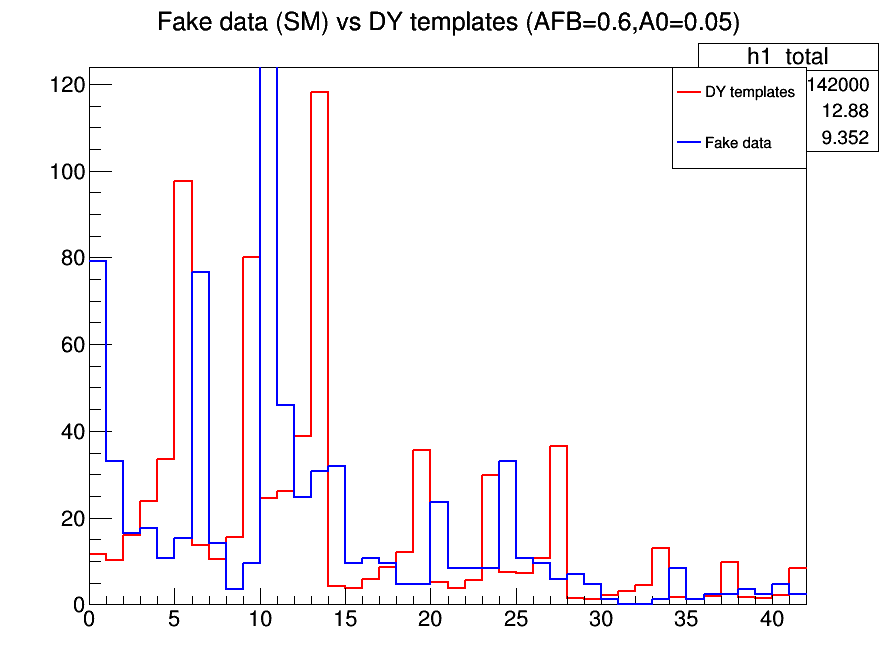
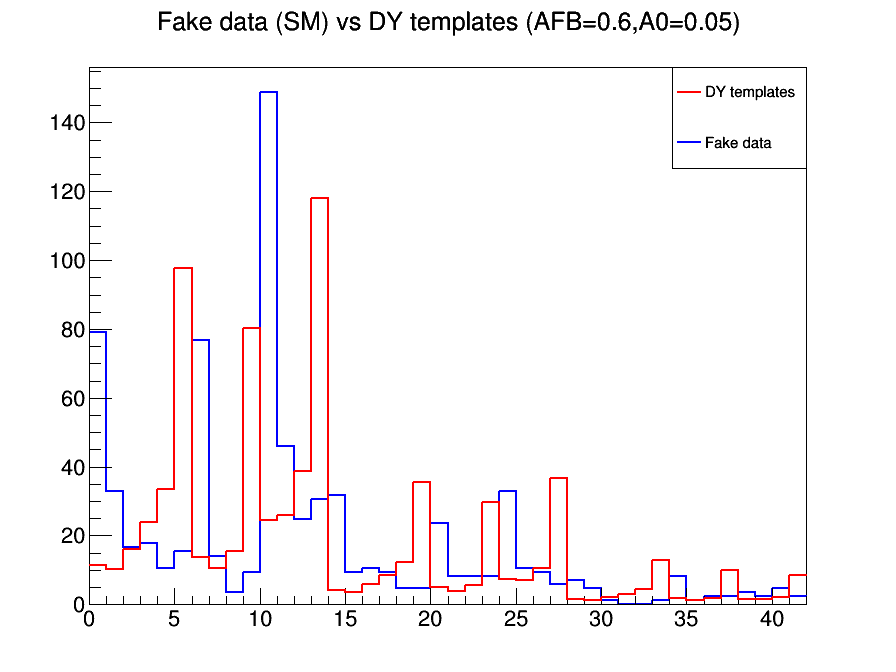
checking signflip

diff --git a/utils/LQ_TemplateMaker_systematics.C b/utils/LQ_TemplateMaker_systematics.C
@@ -304,7 +304,7 @@ void fixup_template_sum(TH3F *h_sym, TH3F *h_asym){
         
 
             // SM terms
-        
+
             //(1./2.56819)*1e9 -> conversion of GeV^-2 to pb
             // jacobian for conversion = 2sqrt(x1x2/s); x1x2s=gen_m^2; sqrt(s) = CM energy -> 13 TeV
         float s = tm.gen_m*tm.gen_m;
@@ -389,7 +389,7 @@ void fixup_template_sum(TH3F *h_sym, TH3F *h_asym){
             cvq=cvq_u;
           }
 
-          
+
           float LQ_denom = get_LQ_denom(gen_cost,s,Q_q,caq,cvq);
 
               //float reweight_LQpure_norm = (n_conv*LQ_jacobian/(128*M_PI*s));
@@ -574,7 +574,7 @@ void fixup_template_sum(TH3F *h_sym, TH3F *h_asym){
       make_pl_mn_templates(&h_sym, &h_asym, h_pl, h_mn);
 
 
-      
+
 
       h_dy->Add(h_pl, h_mn, (norm + afb), (norm - afb));
       h_alpha.Scale(norm * alpha);
@@ -607,7 +607,7 @@ void fixup_template_sum(TH3F *h_sym, TH3F *h_asym){
         }
         if(sys_label.find("fakesrw") != string::npos){
           int foo;
-          
+
           if(sys_shift > 0){
             if(flag1 == FLAG_MUONS) sscanf(sys_label.c_str(), "_mufakesrw%ib%iUp", &shape_sys, &foo);
             else sscanf(sys_label.c_str(), "_elfakesrw%ib%iUp", &shape_sys, &foo);
@@ -621,7 +621,7 @@ void fixup_template_sum(TH3F *h_sym, TH3F *h_asym){
           printf("Doing fakes costrw sys %i \n", shape_sys);
         }
       }
-      
+
       float eta1,eta2,pt1,pt2;
 
 
@@ -882,8 +882,8 @@ void fixup_template_sum(TH3F *h_sym, TH3F *h_asym){
       t_gen->GetEntry(i);
       //  if(sys_label.find("ptcutUp") != string::npos) pt_cut = 38.;
       //  if(sys_label.find("ptcutdown") != string::npos) pt_cut = 26.;
-      
-      
+
+
       evt_weight = gen_weight;
       cm = *gen_lep_p + *gen_lep_m;
       float pt = cm.Pt();
@@ -937,7 +937,7 @@ void fixup_template_sum(TH3F *h_sym, TH3F *h_asym){
         }
 
         sum_weights+=gen_weight;
-        
+
 
         float denom = get_reweighting_denom(A0_helper, gen_cost, m, pt, rap);
 
@@ -1047,9 +1047,9 @@ void fixup_template_sum(TH3F *h_sym, TH3F *h_asym){
     TLorentzVector *gen_lep_p(0), *gen_lep_m(0), *gen_q1(0), *gen_q2(0), q,cm;
     float gen_weight, m, cost, cost_st;
     int inc_id1, inc_id2;
-    
+
     float evt_weight;
-    
+
     Bool_t sig_event(1);
 
     t_gen->SetBranchAddress("lep_pls", &gen_lep_p);
@@ -1060,7 +1060,7 @@ void fixup_template_sum(TH3F *h_sym, TH3F *h_asym){
     //t_gen->SetBranchAddress("cost", &cost);
     //t_gen->SetBranchAddress("cost_st", &cost_st);
     t_gen->SetBranchAddress("gen_weight", &gen_weight);
-    
+
     //t_gen->SetBranchAddress("pdf_weights", &pdf_weights);
     t_gen->SetBranchAddress("q1_id", &inc_id1);
     t_gen->SetBranchAddress("q2_id", &inc_id2);
@@ -1079,16 +1079,16 @@ void fixup_template_sum(TH3F *h_sym, TH3F *h_asym){
       t_gen->GetEntry(i);
       cm = *gen_lep_p + *gen_lep_m;
       float m = cm.M();
-      if(m > lq_m_bins[0] && gen_weight>0.)
+      if(m > lq_m_bins[0])
         sum_weights_data+=gen_weight;
       else if(gen_weight<0.) printf("gen_weight is negative = %f\n",gen_weight);
     }
     printf("sum_weights_data = %f\n",sum_weights_data);
     for (int i=0; i<t_gen->GetEntries(); i++) {
       t_gen->GetEntry(i);
-      
 
-      
+
+
       evt_weight = gen_weight;
       cm = *gen_lep_p + *gen_lep_m;
       m = cm.M();
@@ -1098,13 +1098,13 @@ void fixup_template_sum(TH3F *h_sym, TH3F *h_asym){
             //flip the sign of cost based on eta of quark - currently it is assumed that quark is moving in +z direction
       if(inc_id1 > 0) q = *gen_q1;
       else if(inc_id2 > 0) q = *gen_q2;
-      if(q.Eta() < 0. ) gen_cost*=-1.;
+      //if(q.Eta() < 0. ) gen_cost*=-1.;
             //else if(inc_id2 > 0 && gen_q2.Eta() < 0.) gen_cost*=-1.;
 
             bool pass = m > lq_m_bins[0]; //&& abs(gen_lep_p->Eta()) < 2.4 && abs(gen_lep_m->Eta()) < 2.4 && min(gen_lep_m->Pt(), gen_lep_p->Pt()) > 15.;
          //   && max(gen_lep_m->Pt(), gen_lep_p->Pt()) > pt_cut 
         //bool pass = abs(cm.Rapidity()) < 2.4;
-            
+
 
             if(pass){
 

diff --git a/analyze/combine/LQ_make_gen_templates.C b/analyze/combine/LQ_make_gen_templates.C
@@ -233,7 +233,7 @@ void LQ_make_gen_templates(){
         leg1->AddEntry(h1_total, "DY templates", "l");
         leg1->AddEntry(h1_data, "Fake data", "l");
         leg1->Draw();
-        sprintf(title, "data_vs_total_SM_%i.png", year %2000);
+        sprintf(title, "../generator_stuff/plots/data_vs_total_SM_noflip_%i.png", year %2000);
         c_mumu1->Print(title);
         delete c_mumu1;
 
